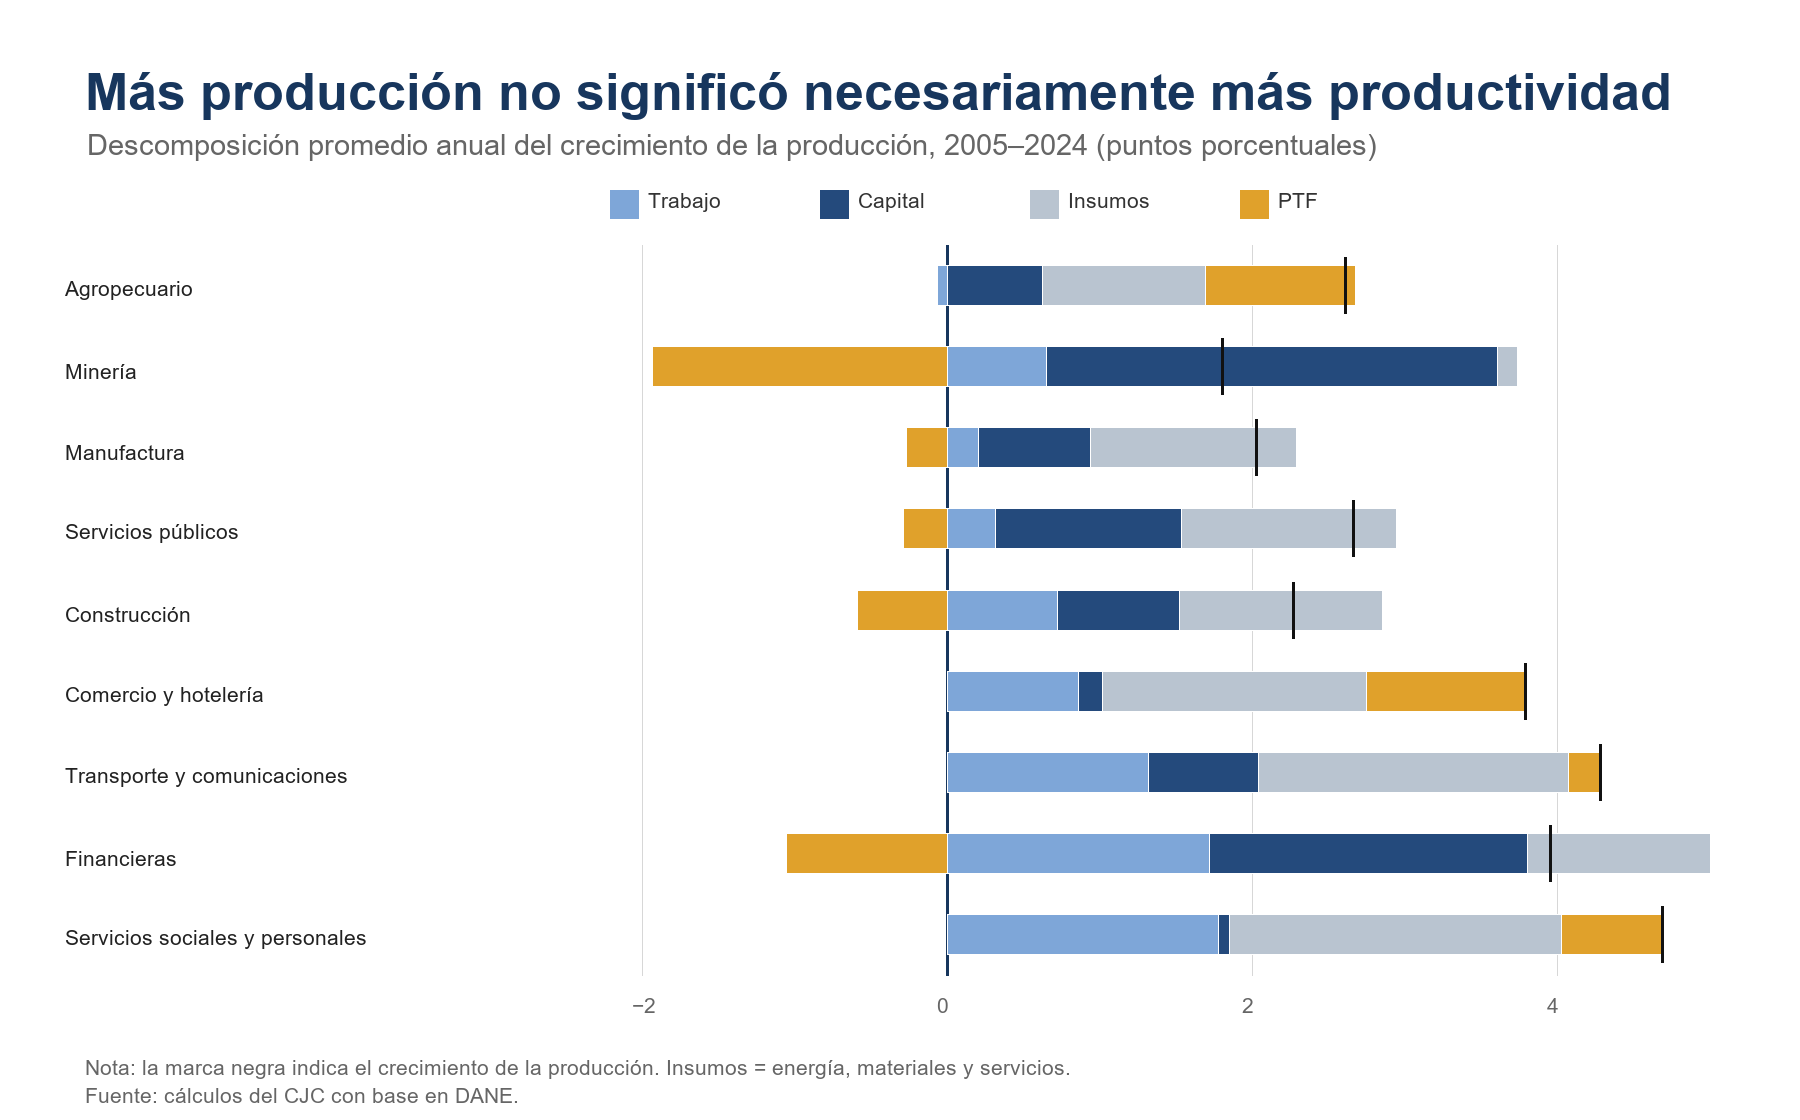
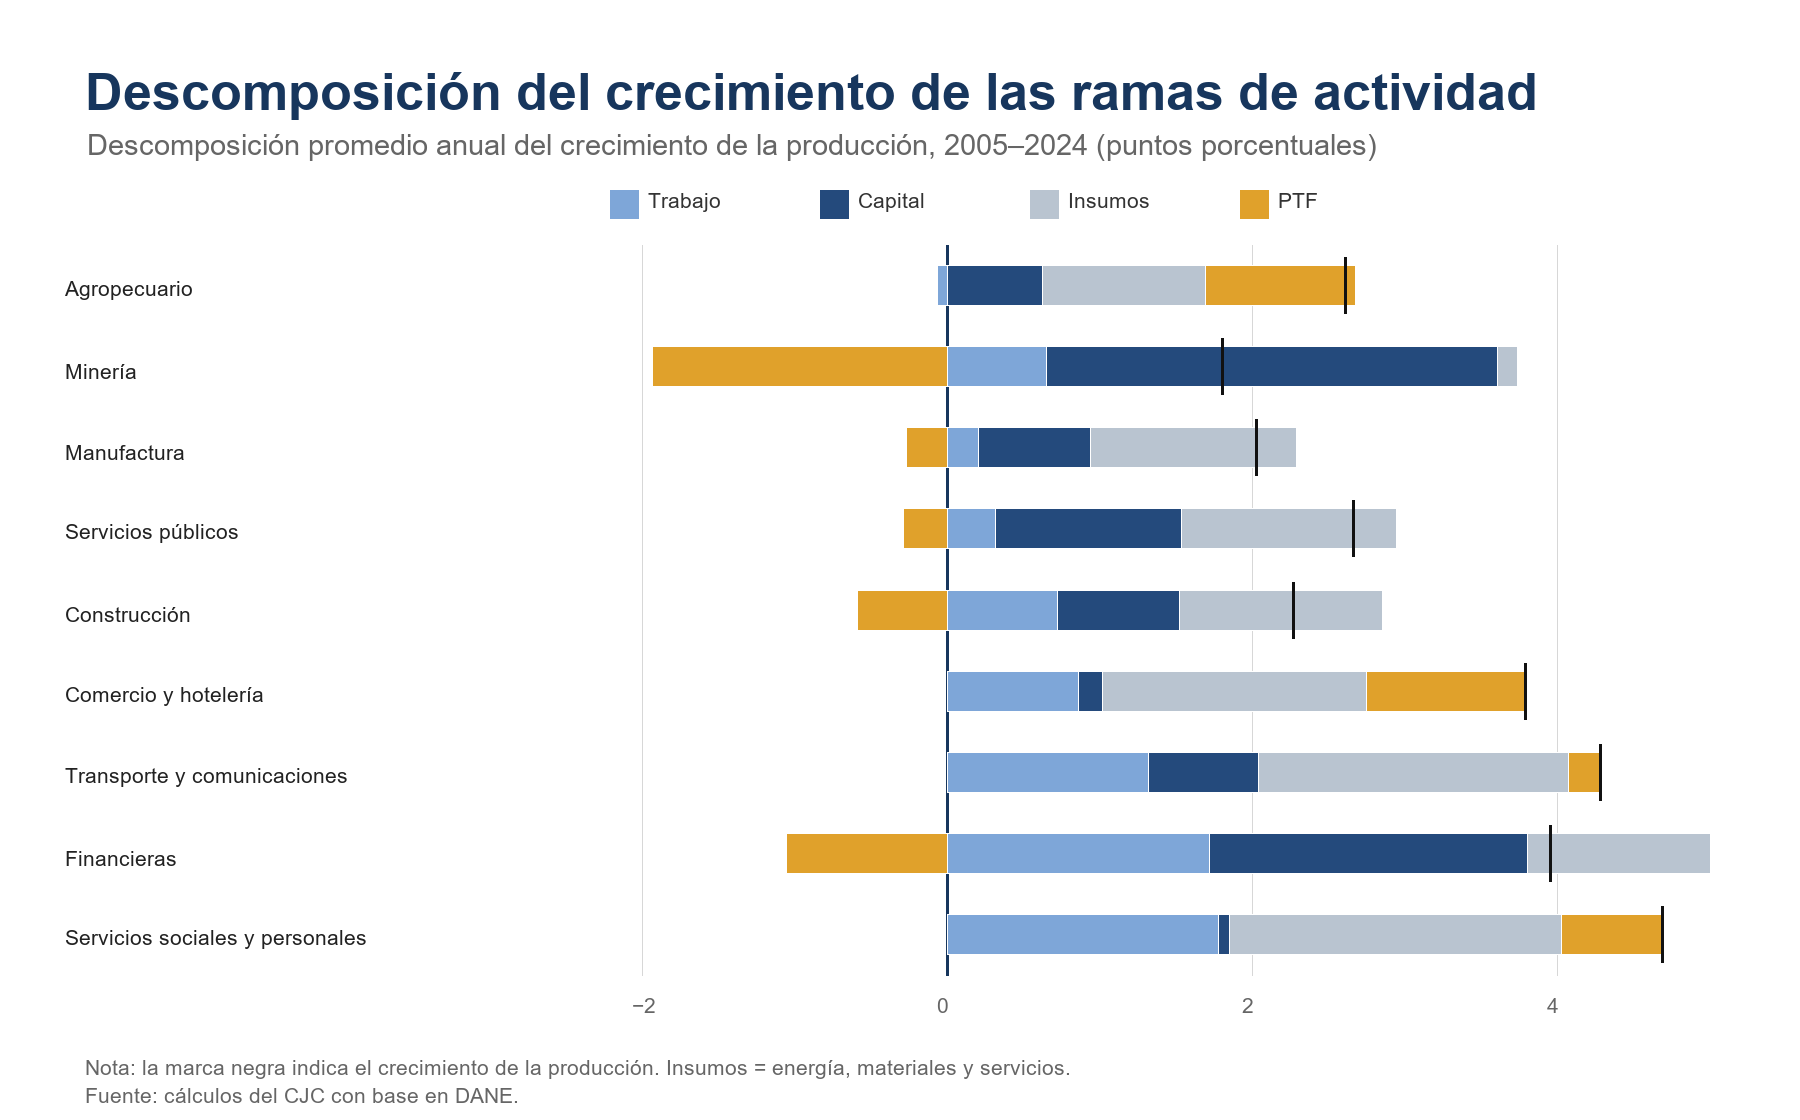
Update decomposition chart title

Changed region(s): [[0.0311, 0.0625, 0.9333, 0.125]]

diff --git a/scripts/build_ptf_data.py b/scripts/build_ptf_data.py
@@ -1878,7 +1878,7 @@ def draw_ptf_bars(long_run: list[dict[str, float | int | str]]) -> None:
 
 def draw_decomposition(long_run: list[dict[str, float | int | str]]) -> None:
     img, draw, f = canvas(
-        "Más producción no significó necesariamente más productividad",
+        "Descomposición del crecimiento de las ramas de actividad",
         "Descomposición promedio anual del crecimiento de la producción, 2005–2024 (puntos porcentuales)",
     )
     left, right, top, bottom = 520, 1710, 245, 975

diff --git a/Paper/presentacion_informe_02_ptf.tex b/Paper/presentacion_informe_02_ptf.tex
@@ -281,7 +281,7 @@
 \end{frame}
 
 
-\begin{frame}{Descomposición del crecimiento de las ramas de actividad}
+\begin{frame}{Aporte de las ramas al crecimiento económico}
   \idea{El uso de factores e insumos impulsó la producción de todas las ramas, aunque la caída de la PTF contrarrestó parte de ese aporte en cinco ramas.}
 
   \vspace{0.05cm}
